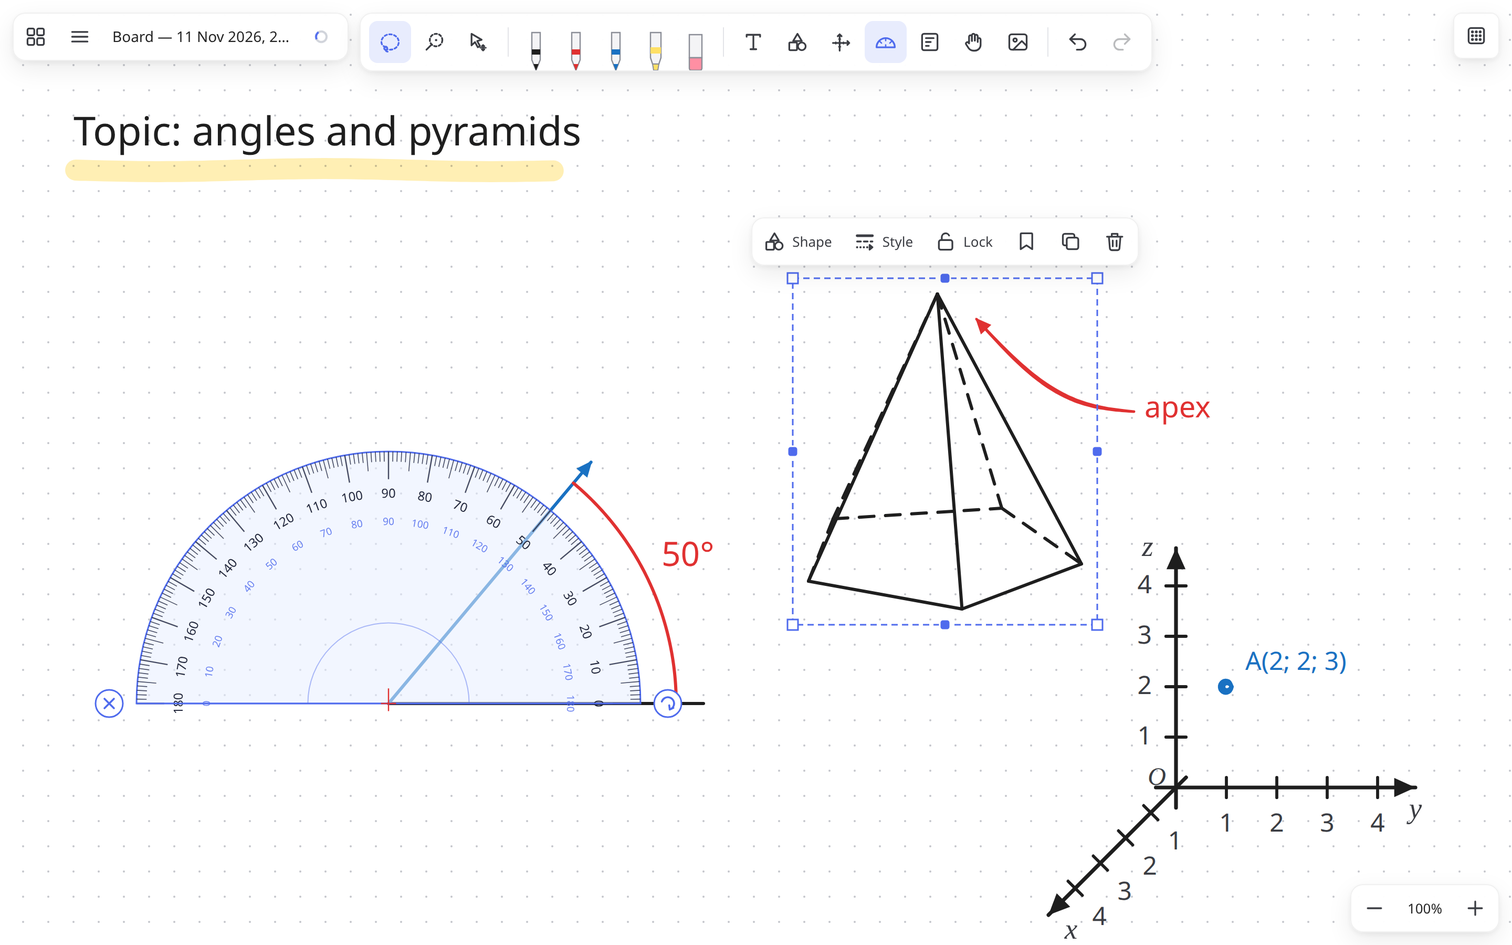
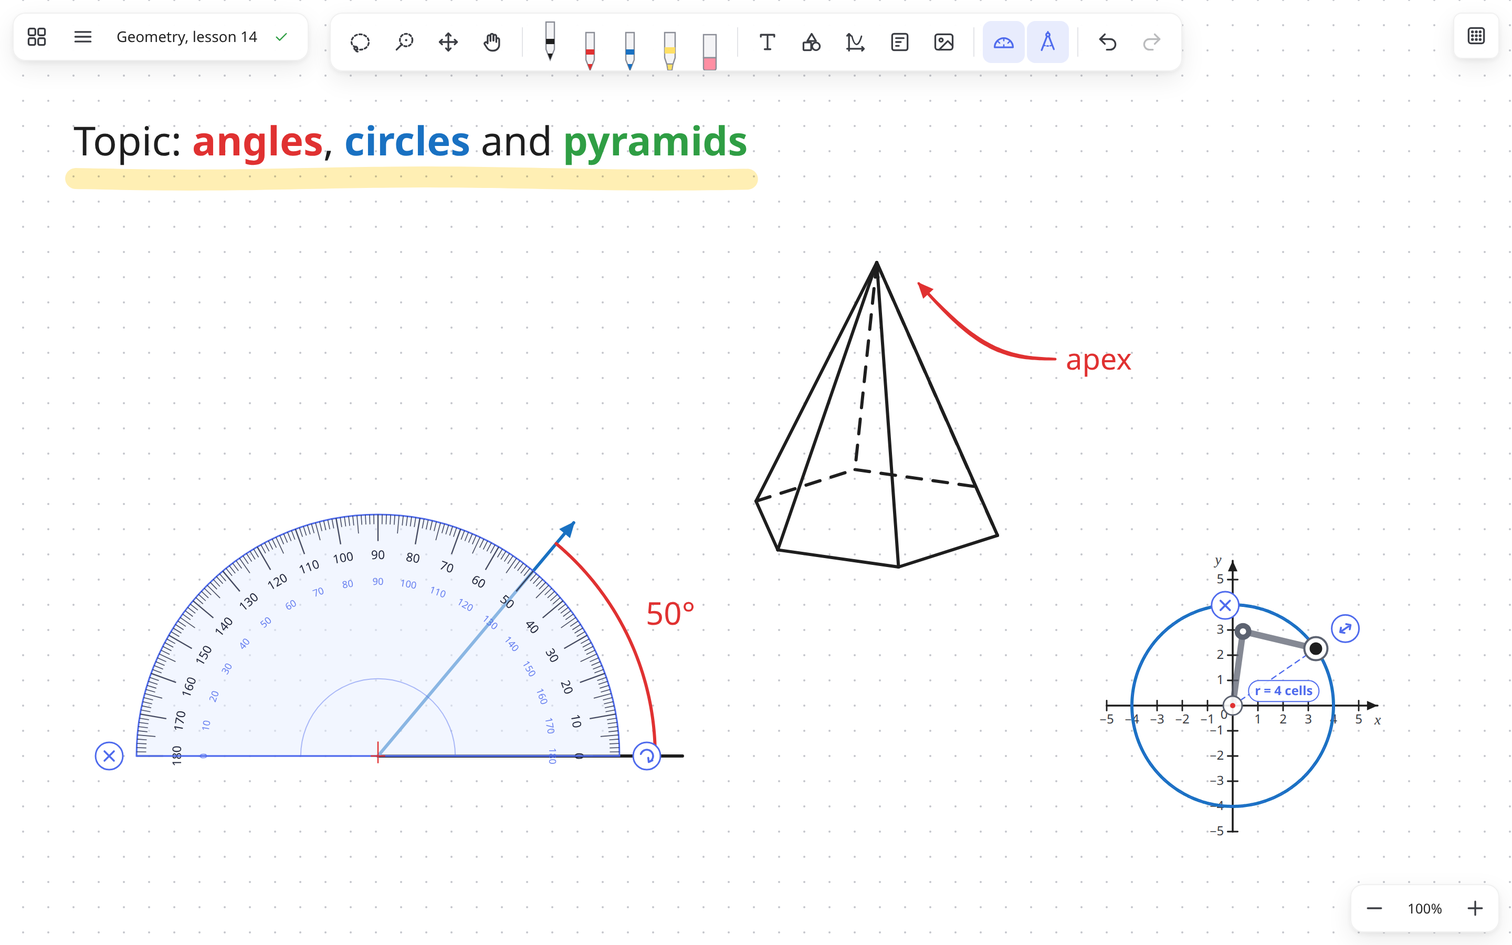
Rephrase texts without em dashes; versions every 5 minutes; fit view after restore
- UI strings (both languages), docs, README, site and release notes no longer use em dashes.
- New boards are named "Board of <date>"; the window title uses a middle dot.
- Version history: a snapshot every 5 minutes of editing, the last 36 kept.
- Restoring a version moves the view to show the whole board.
- New screenshots (English and Ukrainian) for the README, site and social preview.
- Site: up-to-date macOS steps (Privacy & Security, Open Anyway).

diff --git a/index.html b/index.html
@@ -3,14 +3,14 @@
 <head>
 <meta charset="utf-8">
 <meta name="viewport" content="width=device-width, initial-scale=1">
-<title>Inkboard — безкоштовна дошка для графічного планшета</title>
+<title>Inkboard: безкоштовна дошка для графічного планшета</title>
 <meta name="description" content="Безкоштовна нескінченна дошка для вчителів і графічних планшетів: перо з натиском, транспортир і циркуль, фігури, координати, текст. Зберігає все саме, навіть коли зникає світло. Windows, macOS, Linux.">
-<meta property="og:title" content="Inkboard — free whiteboard for pen tablets">
+<meta property="og:title" content="Inkboard: free whiteboard for pen tablets">
 <meta property="og:description" content="Infinite canvas, pressure-sensitive ink, protractor and compass, shapes, coordinates and text. Free and open source for Windows, macOS and Linux.">
 <meta property="og:image" content="https://yaroslavyushchenko.github.io/inkboard/img/social-preview.png">
 <meta property="og:image:width" content="1280">
 <meta property="og:image:height" content="640">
-<meta property="og:image:alt" content="Inkboard — free whiteboard for teachers with a pen tablet">
+<meta property="og:image:alt" content="Inkboard, a free whiteboard for teachers with a pen tablet">
 <meta property="og:url" content="https://yaroslavyushchenko.github.io/inkboard/">
 <meta property="og:site_name" content="Inkboard">
 <meta property="og:type" content="website">
@@ -191,7 +191,7 @@
   <div class="hero">
     <div class="wrap">
       <h1 data-i18n-html="hero.title">Нескінченна дошка для <em>графічного планшета</em></h1>
-      <p class="lead" data-i18n="hero.lead">Пишіть пером як на папері, кресліть із транспортиром, будуйте фігури й координати. Для вчителів і всіх, хто думає рукою. Безкоштовно, без акаунта й без інтернету — і жоден рядок не загубиться, навіть коли зникне світло.</p>
+      <p class="lead" data-i18n="hero.lead">Пишіть пером як на папері, кресліть із транспортиром, будуйте фігури й координати. Для вчителів і всіх, хто думає рукою. Безкоштовно, без акаунта й без інтернету. І жоден рядок не загубиться, навіть коли зникне світло.</p>
       <div class="cta">
         <a class="btn" id="primary" href="https://github.com/yaroslavyushchenko/inkboard/releases/latest">
           <svg viewBox="0 0 24 24" fill="none" stroke="currentColor" stroke-width="2.2" stroke-linecap="round" stroke-linejoin="round"><path d="M12 4v11m0 0l-4.5-4.5M12 15l4.5-4.5M5 20h14"/></svg>
@@ -208,8 +208,8 @@
       </div>
       <div class="shot">
         <div class="chrome"><i></i><i></i><i></i></div>
-        <img data-only="uk" src="img/board-uk.png" width="2880" height="1800" alt="Inkboard: дошка з транспортиром, пірамідою та просторовими осями">
-        <img data-only="en" src="img/board-en.png" width="2880" height="1800" alt="Inkboard: a board with a protractor, a pyramid and 3D axes" loading="lazy">
+        <img data-only="uk" src="img/board-uk.png" width="2880" height="1800" alt="Inkboard: урок геометрії з транспортиром, шестикутною пірамідою і колом, накресленим циркулем">
+        <img data-only="en" src="img/board-en.png" width="2880" height="1800" alt="Inkboard: a geometry lesson with a protractor, a hexagonal pyramid and a circle drawn with the compass" loading="lazy">
       </div>
     </div>
   </div>
@@ -217,7 +217,7 @@
   <section id="features">
     <div class="wrap">
       <h2 data-i18n="f.title">Усе для уроку на одній дошці</h2>
-      <p class="sub" data-i18n="f.sub">Зроблено для вчительки з планшетом Wacom, якій бракувало Microsoft Whiteboard. Тепер — для всіх.</p>
+      <p class="sub" data-i18n="f.sub">Зроблено для вчительки з планшетом Wacom, якій бракувало Microsoft Whiteboard. Тепер вона для всіх.</p>
       <div class="grid">
         <div class="card">
           <div class="ico"><svg viewBox="0 0 24 24" fill="none" stroke="currentColor" stroke-width="1.9" stroke-linecap="round" stroke-linejoin="round"><path d="M4 20l3.5-1 10-10-2.5-2.5-10 10z"/><path d="M13.5 6.5l2.5 2.5"/></svg></div>
@@ -232,17 +232,17 @@
         <div class="card">
           <div class="ico"><svg viewBox="0 0 24 24" fill="none" stroke="currentColor" stroke-width="1.9" stroke-linecap="round" stroke-linejoin="round"><path d="M12 3l8 15H4z"/><path d="M12 3l1.5 15" /><path d="M4 18l9.5 0" stroke-dasharray="2 2"/></svg></div>
           <h3 data-i18n="f.shapes.t">Фігури та 3D-тіла</h3>
-          <p data-i18n="f.shapes.d">Куб, призма, піраміда, циліндр, конус, куля — з пунктирними невидимими ребрами. Основа піраміди й призми — з будь-якою кількістю кутів, її можна змінити потім.</p>
+          <p data-i18n="f.shapes.d">Куб, призма, піраміда, циліндр, конус і куля з пунктирними невидимими ребрами. Основа піраміди й призми може мати будь-яку кількість кутів, і її можна змінити потім.</p>
         </div>
         <div class="card">
           <div class="ico"><svg viewBox="0 0 24 24" fill="none" stroke="currentColor" stroke-width="1.9" stroke-linecap="round" stroke-linejoin="round"><path d="M9 3v12h12"/><path d="M9 15l-6 6"/></svg></div>
           <h3 data-i18n="f.coord.t">Координати</h3>
-          <p data-i18n="f.coord.d">Координатна пряма, площина і просторові осі x, y, z — готові шаблони або свої межі й масштаб.</p>
+          <p data-i18n="f.coord.d">Координатна пряма, площина і просторові осі x, y, z. Беріть готові шаблони або задавайте свої межі й масштаб.</p>
         </div>
         <div class="card">
           <div class="ico"><svg viewBox="0 0 24 24" fill="none" stroke="currentColor" stroke-width="1.9" stroke-linecap="round" stroke-linejoin="round"><path d="M5 6.5V4.5h14v2M12 4.5v15M9 19.5h6"/></svg></div>
           <h3 data-i18n="f.text.t">Текст і зображення</h3>
-          <p data-i18n="f.text.d">Друкуйте прямо на дошці й виділяйте слова кольором, розміром, жирним. Картинки й скриншоти — через Ctrl+V або перетягуванням.</p>
+          <p data-i18n="f.text.d">Друкуйте прямо на дошці й виділяйте слова кольором, розміром, жирним. Картинки й скриншоти вставляються через Ctrl+V або перетягуванням.</p>
         </div>
         <div class="card">
           <div class="ico"><svg viewBox="0 0 24 24" fill="none" stroke="currentColor" stroke-width="1.9" stroke-linecap="round" stroke-linejoin="round"><rect x="4" y="4" width="7" height="7" rx="1.5"/><rect x="13" y="4" width="7" height="7" rx="1.5"/><rect x="4" y="13" width="7" height="7" rx="1.5"/><path d="M16.5 13v7M13 16.5h7"/></svg></div>
@@ -252,7 +252,7 @@
         <div class="card">
           <div class="ico"><svg viewBox="0 0 24 24" fill="none" stroke="currentColor" stroke-width="1.9" stroke-linecap="round" stroke-linejoin="round"><rect x="4" y="3.5" width="16" height="17" rx="2"/><path d="M8 8h8M8 12h5M8 16h3"/></svg></div>
           <h3 data-i18n="f.tpl.t">Шаблони</h3>
-          <p data-i18n="f.tpl.d">Збережіть «Дано / Знайти / Розв'язання» чи будь-що інше раз — і вставляйте в будь-яку дошку.</p>
+          <p data-i18n="f.tpl.d">Збережіть «Дано / Знайти / Розв'язання» чи будь-що інше один раз і вставляйте в будь-яку дошку.</p>
         </div>
         <div class="card">
           <div class="ico"><svg viewBox="0 0 24 24" fill="none" stroke="currentColor" stroke-width="1.9" stroke-linecap="round" stroke-linejoin="round"><rect x="5" y="10.5" width="14" height="10" rx="2"/><path d="M8 10.5V7.5a4 4 0 0 1 8 0v3"/></svg></div>
@@ -271,14 +271,14 @@
   <section class="soft">
     <div class="wrap safe">
       <div>
-        <h2 data-i18n="s.title">Світло зникло — дошка лишилась</h2>
+        <h2 data-i18n="s.title">Світло зникло, а дошка лишилась</h2>
         <p class="sub" data-i18n="s.sub">Кнопки «Зберегти» не треба: Inkboard зберігає кожну дошку сам, кожні кілька секунд.</p>
         <ul>
           <li data-i18n-html="s.1"><b>Автозбереження на диск</b> щонайпізніше через 5 секунд, навіть поки ви малюєте.</li>
           <li data-i18n-html="s.2"><b>Безпечний запис:</b> файл ніколи не лишається напівзаписаним, попередня версія завжди поруч.</li>
-          <li data-i18n-html="s.3"><b>Історія версій</b> кожні 10 хвилин — можна повернутися до будь-якої.</li>
-          <li data-i18n-html="s.4"><b>Резервна папка</b> на флешці чи в Google Drive / OneDrive — копія оновлюється сама.</li>
-          <li data-i18n-html="s.5"><b>Експорт у PNG і PDF</b> — роздати учням або надрукувати.</li>
+          <li data-i18n-html="s.3"><b>Історія версій</b> кожні 5 хвилин: можна повернутися до будь-якої.</li>
+          <li data-i18n-html="s.4"><b>Резервна папка</b> на флешці чи в Google Drive / OneDrive, копія оновлюється сама.</li>
+          <li data-i18n-html="s.5"><b>Експорт у PNG і PDF</b>, щоб роздати учням або надрукувати.</li>
         </ul>
       </div>
       <div class="power">
@@ -291,17 +291,17 @@
   <section id="download">
     <div class="wrap">
       <h2 data-i18n="d.title">Завантажити Inkboard</h2>
-      <p class="sub" data-i18n="d.sub">Встановіть один раз — далі на Windows і Linux (AppImage) нові версії встановлюються самі.</p>
+      <p class="sub" data-i18n="d.sub">Встановіть один раз, і далі на Windows і Linux (AppImage) нові версії встановлюються самі.</p>
       <div class="dl">
         <div class="os" data-os="win">
           <h3><svg viewBox="0 0 24 24" fill="currentColor"><path d="M3 5.5l7.5-1v7H3zM11.5 4.4L21 3v8.5h-9.5zM3 12.5h7.5v7L3 18.5zM11.5 12.5H21V21l-9.5-1.4z"/></svg>Windows</h3>
           <div class="files"><a class="file" data-asset="exe" href="https://github.com/yaroslavyushchenko/inkboard/releases/latest"><b data-i18n="d.installer">Інсталятор</b><span>.exe</span></a></div>
-          <p class="note" data-i18n-html="d.win">Windows 10 / 11. Програма ще не підписана, тож з'явиться «Windows захистив ваш ПК» — натисніть <b>Докладніше</b> → <b>Усе одно запустити</b>.</p>
+          <p class="note" data-i18n-html="d.win">Windows 10 / 11. Програма ще не підписана, тож з'явиться «Windows захистив ваш ПК». Натисніть <b>Докладніше</b> → <b>Усе одно запустити</b>.</p>
         </div>
         <div class="os" data-os="mac">
           <h3><svg viewBox="0 0 24 24" fill="currentColor"><path d="M16.4 12.6c0-2.4 2-3.6 2.1-3.7-1.2-1.7-3-1.9-3.6-2-1.5-.2-3 .9-3.7.9-.8 0-2-.9-3.2-.9-1.7 0-3.2 1-4.1 2.4-1.8 3.1-.5 7.6 1.3 10.1.8 1.2 1.8 2.6 3.1 2.5 1.2-.1 1.7-.8 3.2-.8s1.9.8 3.2.8c1.3 0 2.2-1.2 3-2.4.9-1.4 1.3-2.7 1.3-2.8 0 0-2.6-1-2.7-4.1zM14 5.3c.7-.8 1.1-1.9 1-3-1 0-2.1.7-2.8 1.5-.6.7-1.2 1.8-1 2.9 1.1.1 2.1-.6 2.8-1.4z"/></svg>macOS</h3>
           <div class="files"><a class="file" data-asset="dmg" href="https://github.com/yaroslavyushchenko/inkboard/releases/latest"><b>Intel + Apple Silicon</b><span>.dmg</span></a></div>
-          <p class="note" data-i18n-html="d.mac">Перетягніть у «Програми», потім <b>правий клік → Відкрити</b>. Якщо macOS пише, що програма пошкоджена: <code class="cmd">xattr -cr /Applications/Inkboard.app</code></p>
+          <p class="note" data-i18n-html="d.mac">Перетягніть у «Програми» й відкрийте. macOS скаже, що не може перевірити програму: натисніть «Готово», відкрийте <b>Системні параметри → Приватність і безпека</b> і внизу натисніть <b>Усе одно відкрити</b>. Це треба лише один раз. Якщо macOS пише, що програма пошкоджена: <code class="cmd">xattr -cr /Applications/Inkboard.app</code></p>
         </div>
         <div class="os" data-os="linux">
           <h3><svg viewBox="0 0 24 24" fill="none" stroke="currentColor" stroke-width="1.8" stroke-linecap="round" stroke-linejoin="round"><path d="M12 3c-2.2 0-3.5 1.8-3.5 4.5 0 1.6.4 2.6-.8 4.4C6.4 13.8 5 15.6 5.5 18c.4 1.8 2.6 2.6 6.5 2.6s6.1-.8 6.5-2.6c.5-2.4-.9-4.2-2.2-6.1-1.2-1.8-.8-2.8-.8-4.4C15.5 4.8 14.2 3 12 3z"/><path d="M10.3 8h.01M13.7 8h.01M11 10.2l1 .8 1-.8"/></svg>Linux</h3>
@@ -309,7 +309,7 @@
             <a class="file" data-asset="appimage" href="https://github.com/yaroslavyushchenko/inkboard/releases/latest"><b data-i18n="d.appimage">AppImage (оновлюється сама)</b><span>.AppImage</span></a>
             <a class="file" data-asset="deb" href="https://github.com/yaroslavyushchenko/inkboard/releases/latest"><b>Ubuntu / Debian</b><span>.deb</span></a>
           </div>
-          <p class="note" data-i18n-html="d.linux">Для AppImage на Ubuntu 24.04+: <code class="cmd">sudo apt install libfuse2t64</code> потім <code>chmod +x</code> і запуск.</p>
+          <p class="note" data-i18n-html="d.linux">AppImage: у властивостях файлу дозвольте <b>запуск як програми</b> (або <code>chmod +x</code>) і відкрийте. Якщо на Ubuntu не запускається: <code class="cmd">sudo apt install libfuse2t64</code></p>
         </div>
       </div>
       <p class="ver" id="ver"></p>
@@ -333,7 +333,7 @@
     'nav.features': 'Features',
     'nav.download': 'Download',
     'hero.title': 'An infinite whiteboard for your <em>pen tablet</em>',
-    'hero.lead': 'Write with a pen like on paper, draw with a protractor, build shapes and coordinate systems. For teachers and everyone who thinks by hand. Free, no account, no internet needed — and not a single line is lost, even when the power goes out.',
+    'hero.lead': 'Write with a pen like on paper, draw with a protractor, build shapes and coordinate systems. For teachers and everyone who thinks by hand. Free, no account, no internet needed. And not a single line is lost, even when the power goes out.',
     'hero.download': 'Download',
     'hero.other': 'Other systems',
     'badge.free': 'Free forever',
@@ -346,15 +346,15 @@
     'f.prot.t': 'Protractor and compass',
     'f.prot.d': 'Arcs along the edge with their degrees written next to them, rays at an exact angle, a compass for circles and arcs of any radius. Drag a line’s ends to adjust it.',
     'f.shapes.t': 'Shapes and 3D solids',
-    'f.shapes.d': 'Cube, prism, pyramid, cylinder, cone, sphere — hidden edges dashed. Pyramids and prisms take a base with any number of sides, changeable later.',
+    'f.shapes.d': 'Cube, prism, pyramid, cylinder, cone and sphere, with hidden edges dashed. Pyramids and prisms take a base with any number of sides, changeable later.',
     'f.coord.t': 'Coordinates',
-    'f.coord.d': 'Number line, coordinate plane and 3D axes x, y, z — ready presets or your own ranges and scale.',
+    'f.coord.d': 'Number line, coordinate plane and 3D axes x, y, z. Use ready presets or set your own ranges and scale.',
     'f.text.t': 'Text and images',
     'f.text.d': 'Type right on the board and highlight words with colour, size or bold; paste pictures and screenshots with Ctrl+V or drag them in.',
     'f.lib.t': 'Board library',
     'f.lib.d': 'All boards with previews, search, colour tags (e.g. “5A”, “Geometry”), pinned boards, a 30-day bin.',
     'f.tpl.t': 'Templates',
-    'f.tpl.d': 'Save “Given / Find / Solution” or anything else once — insert it into any board.',
+    'f.tpl.d': 'Save “Given / Find / Solution” or anything else once and insert it into any board.',
     'f.select.t': 'Select, group, lock',
     'f.select.d': 'Lasso or brush to select, grouping, and a lock that protects what matters from accidental erasing.',
     'f.wacom.t': 'For Wacom and other tablets',
@@ -363,17 +363,17 @@
     's.sub': 'No Save button needed: Inkboard saves every board by itself, every few seconds.',
     's.1': '<b>Autosaved to disk</b> within 5 seconds at most, even while you draw.',
     's.2': '<b>Safe writes:</b> a file is never left half-written; the previous version is always kept.',
-    's.3': '<b>Version history</b> every 10 minutes — go back to any of them.',
+    's.3': '<b>Version history</b> every 5 minutes, so you can go back to any of them.',
     's.4': '<b>Backup folder</b> on a USB stick or in Google Drive / OneDrive, updated automatically.',
-    's.5': '<b>Export to PNG and PDF</b> — share with students or print.',
+    's.5': '<b>Export to PNG and PDF</b> to share with students or print.',
     's.power': 'Tested by “pulling the plug”: after a forced shutdown the board opens with every line.',
     'd.title': 'Download Inkboard',
-    'd.sub': 'Install once — after that, new versions install themselves on Windows and Linux (AppImage).',
+    'd.sub': 'Install once. After that, new versions install themselves on Windows and Linux (AppImage).',
     'd.installer': 'Installer',
-    'd.win': 'Windows 10 / 11. The app isn’t code-signed yet, so you’ll see “Windows protected your PC” — click <b>More info</b> → <b>Run anyway</b>.',
-    'd.mac': 'Drag it to Applications, then <b>right-click → Open</b>. If macOS says the app is damaged: <code class="cmd">xattr -cr /Applications/Inkboard.app</code>',
+    'd.win': 'Windows 10 / 11. The app isn’t code-signed yet, so you’ll see “Windows protected your PC”. Click <b>More info</b> → <b>Run anyway</b>.',
+    'd.mac': 'Drag it to Applications and open it. macOS will say it can’t verify the app: click Done, open <b>System Settings → Privacy &amp; Security</b> and click <b>Open Anyway</b> at the bottom. You only do this once. If macOS says the app is damaged: <code class="cmd">xattr -cr /Applications/Inkboard.app</code>',
     'd.appimage': 'AppImage (updates itself)',
-    'd.linux': 'For the AppImage on Ubuntu 24.04+: <code class="cmd">sudo apt install libfuse2t64</code> then <code>chmod +x</code> and run it.',
+    'd.linux': 'AppImage: in the file’s Properties allow <b>Executable as Program</b> (or <code>chmod +x</code>) and open it. If it doesn’t start on Ubuntu: <code class="cmd">sudo apt install libfuse2t64</code>',
     'foot.license': 'free software under the GPL-3.0',
     'foot.code': 'Source code',
     'foot.issues': 'Report a problem',
@@ -385,7 +385,7 @@
   document.querySelectorAll('[data-i18n-html]').forEach((el) => (UK[el.dataset.i18nHtml] = el.innerHTML))
   const META = {
     uk: { title: document.title, win: 'для Windows', mac: 'для macOS', linux: 'для Linux', latest: 'Остання версія', released: 'від' },
-    en: { title: 'Inkboard — free whiteboard for pen tablets', win: 'for Windows', mac: 'for macOS', linux: 'for Linux', latest: 'Latest version', released: 'released' }
+    en: { title: 'Inkboard: free whiteboard for pen tablets', win: 'for Windows', mac: 'for macOS', linux: 'for Linux', latest: 'Latest version', released: 'released' }
   }
 
   const os = (() => {
